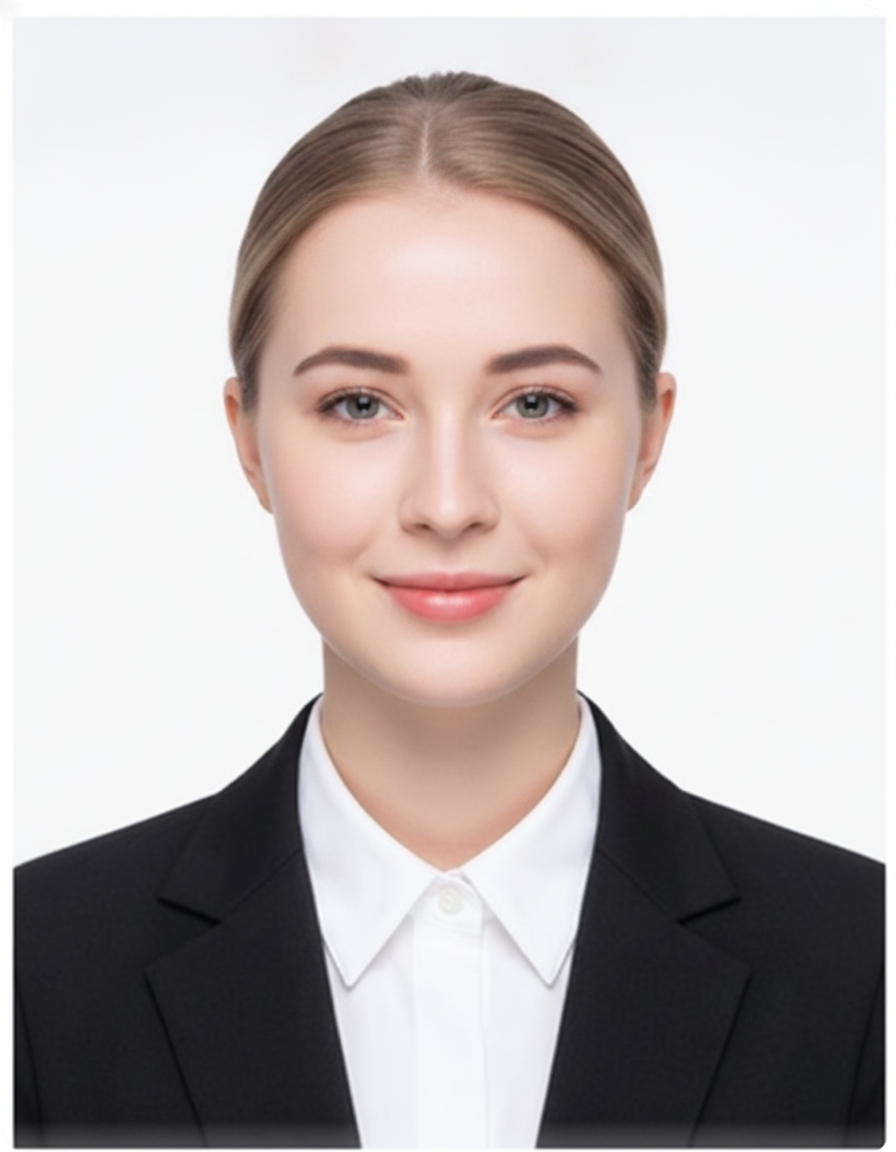
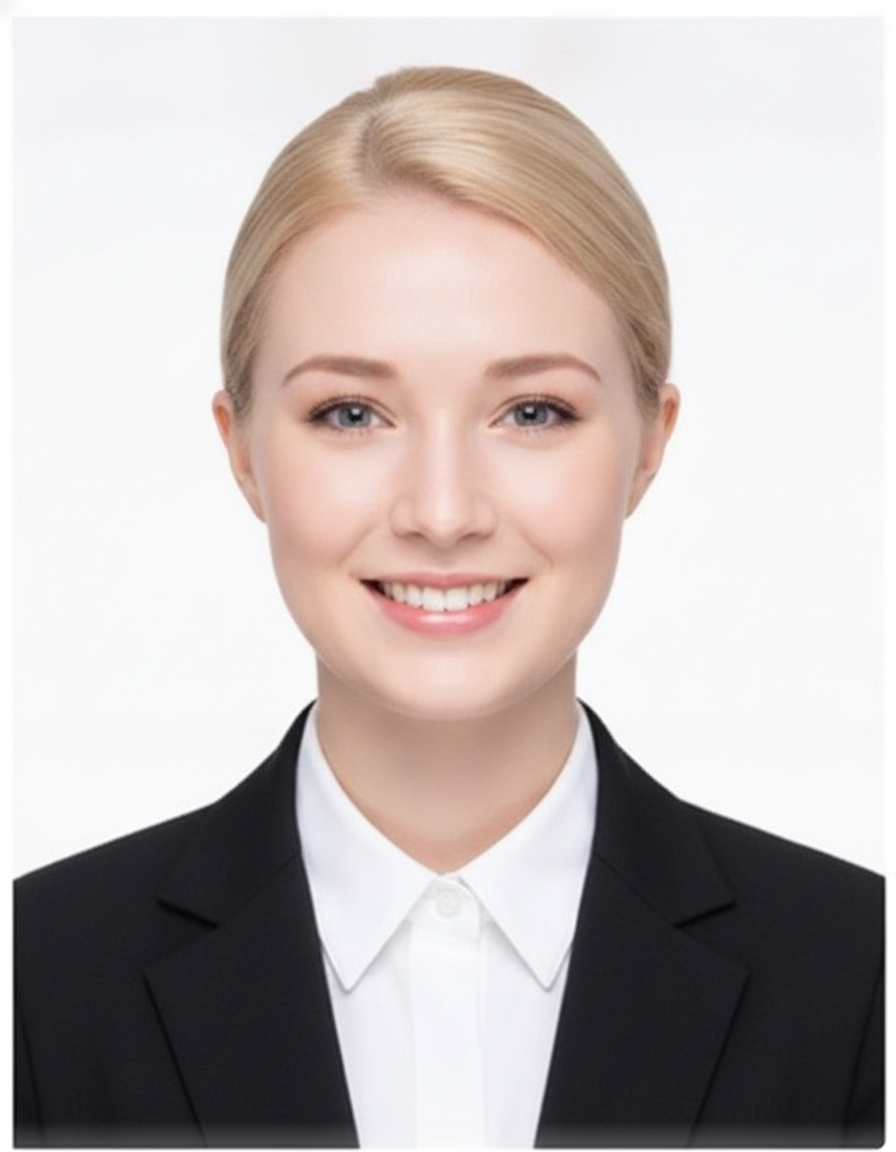
외항사 영문 허브 수정: 실제 메이크업 기능 화면화 + 다양성/이름 보정
- 메이크업 카드: 지어낸 목업 제거 → 실제 '메이크업 입혀보기' 툴과 동일 레이아웃(전/후 슬라이드 + 립/아이섀도 팔레트)을 영어로 재현, 서양인 금발 전후 사진 사용(애프터 붉음 제거).
- CV 사진: 서양인 금발 + 치아 보이는 미소로 교체, 이름 JIMIN LEE → EMMA WILSON(연락처도 영국).
- 디스커션: 흑인만이 아니라 백인(금발)·브라운·동양인 섞인 다국적 구성으로 재생성.

diff --git a/practice-foreign-en.html b/practice-foreign-en.html
@@ -183,10 +183,10 @@ footer{padding:50px 5%;background:var(--navy);color:rgba(255,255,255,0.6);text-a
       <div style="background:#fff;border-radius:8px;overflow:hidden;display:flex;height:254px;box-shadow:0 4px 14px rgba(0,0,0,.08);font-family:'Noto Sans KR',sans-serif;">
         <div style="width:37%;background:#A9744F;color:#fff;padding:14px 10px;text-align:center;">
           <div style="width:48px;height:60px;border-radius:6px;border:2px solid rgba(255,255,255,.9);background:url('images/cv-face-western.png') center 18%/cover;margin:0 auto 7px;"></div>
-          <div style="font-size:11px;font-weight:800;letter-spacing:.04em;line-height:1.1;">JIMIN LEE</div>
+          <div style="font-size:11px;font-weight:800;letter-spacing:.04em;line-height:1.1;">EMMA WILSON</div>
           <div style="font-size:6.6px;letter-spacing:.14em;opacity:.85;margin-top:3px;">CABIN CREW</div>
           <div style="font-size:7px;font-weight:800;border-top:1px solid rgba(255,255,255,.3);margin-top:10px;padding-top:7px;text-align:left;">CONTACT</div>
-          <div style="font-size:6.4px;opacity:.9;text-align:left;margin-top:3px;line-height:1.45;">📞 +82 10-1234-5678<br>✉ jimin.lee@email.com<br>📍 Seoul, Korea</div>
+          <div style="font-size:6.4px;opacity:.9;text-align:left;margin-top:3px;line-height:1.45;">📞 +44 7700 123456<br>✉ emma.wilson@email.com<br>📍 London, UK</div>
         </div>
         <div style="flex:1;padding:12px 12px;text-align:left;color:#333;overflow:hidden;">
           <div style="font-size:7.5px;font-weight:800;color:#A9744F;border-bottom:1px solid #eee3d4;padding-bottom:2px;">WORK EXPERIENCE</div>
@@ -213,14 +213,7 @@ footer{padding:50px 5%;background:var(--navy);color:rgba(255,255,255,0.6);text-a
   </a>
 
   <a class="hub-card" href="image-check-intl.html?photo=images/cv-face-western.png#makeupCard">
-    <div class="vis-mk">
-      <img src="images/photo-good-global.png" alt="Makeup try-on before">
-      <img class="after" src="images/photo-good-global.png" alt="Makeup try-on after">
-      <div class="divln"></div>
-      <div class="lab b">BARE</div>
-      <div class="lab a">MADE-UP</div>
-      <div class="sw"><i style="background:#E86A6A"></i><i style="background:#C64B6E"></i><i style="background:#E85FA0"></i><i style="background:#B08D57"></i><i style="background:#7A4A55"></i></div>
-    </div>
+    <div class="hub-vis" style="padding:14px;background:#F7EFDD;"><img src="images/shot-makeup-en.png" style="width:100%;height:100%;object-fit:contain;border-radius:8px;display:block;" alt="Makeup try-on — lip and eyeshadow before/after"></div>
     <div class="hub-num">Step 02</div>
     <div class="hub-title">Makeup Try-On · Find Your Colors</div>
     <div class="hub-desc">Apply lipstick, eyeshadow and eyeliner to your own face and find the shades that suit you. Compare before and after instantly.</div>
